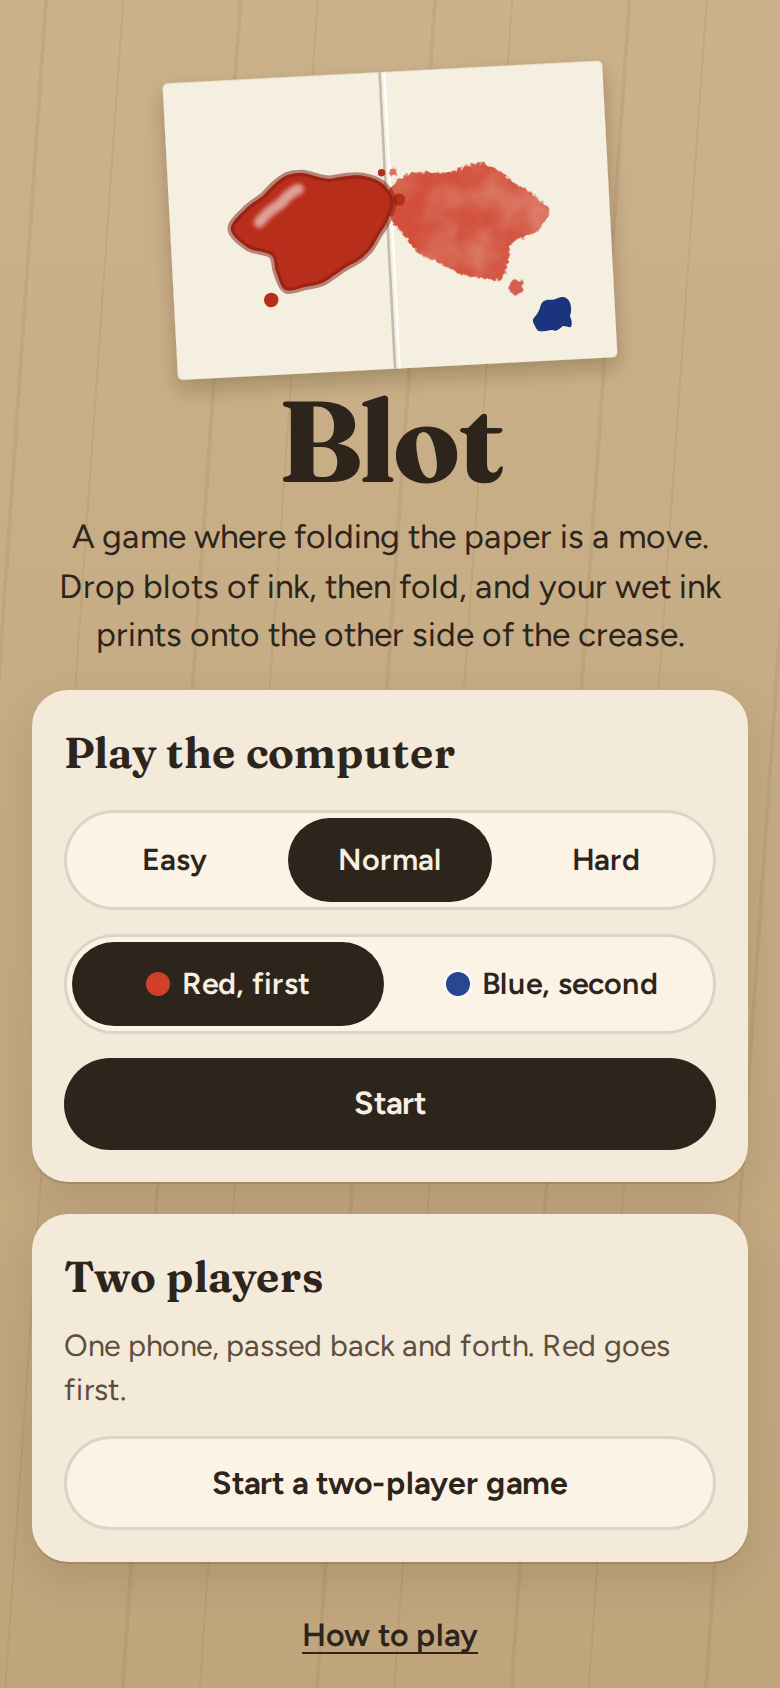
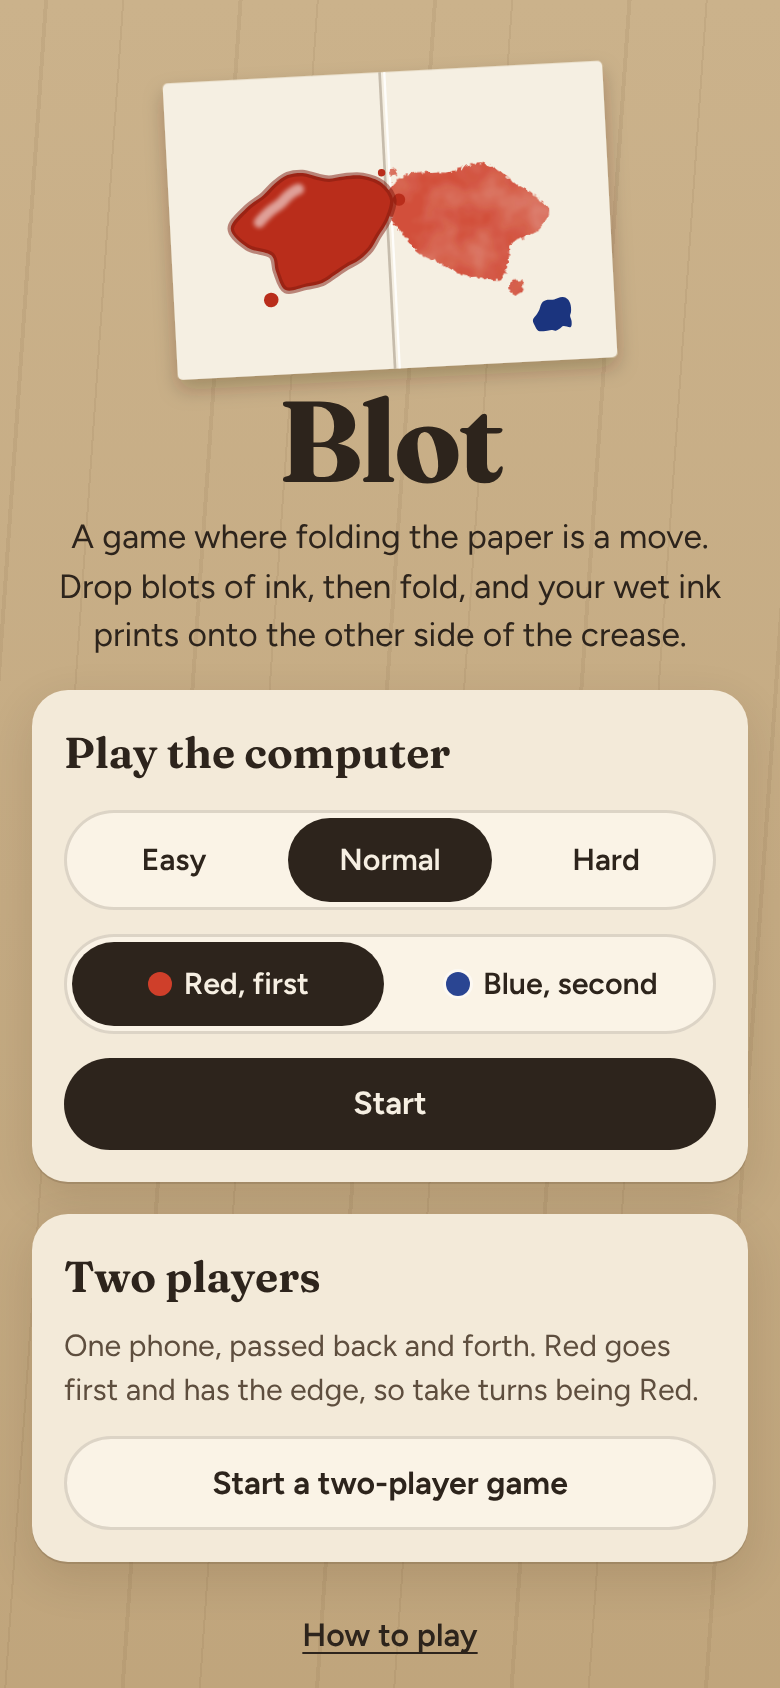
Tell two players that Red has the edge
The two-player card said only that Red goes first, though Red wins most
games at every level of play, even with ties going to Blue: 58.8% of 4,000
games between two casual stand-ins for a person, 72.9% between careful
ones. It now says Red goes first and has the edge, so take turns being Red.
The rules don't change. The README's menu screenshot is redrawn with the
new line. This answers the question "Tell pass-the-phone players that Red
has the edge?" (blot:b1d07c01).

Claude-Session: https://claude.ai/code/session_01N3tHmrVtD9q2Zcak1ErX34

diff --git a/index.html b/index.html
@@ -51,7 +51,7 @@
 
       <div class="card">
         <h2>Two players</h2>
-        <p class="hint">One phone, passed back and forth. Red goes first.</p>
+        <p class="hint">One phone, passed back and forth. Red goes first and has the edge, so take turns being Red.</p>
         <button type="button" class="secondary" id="startTwo">Start a two-player game</button>
       </div>
 
